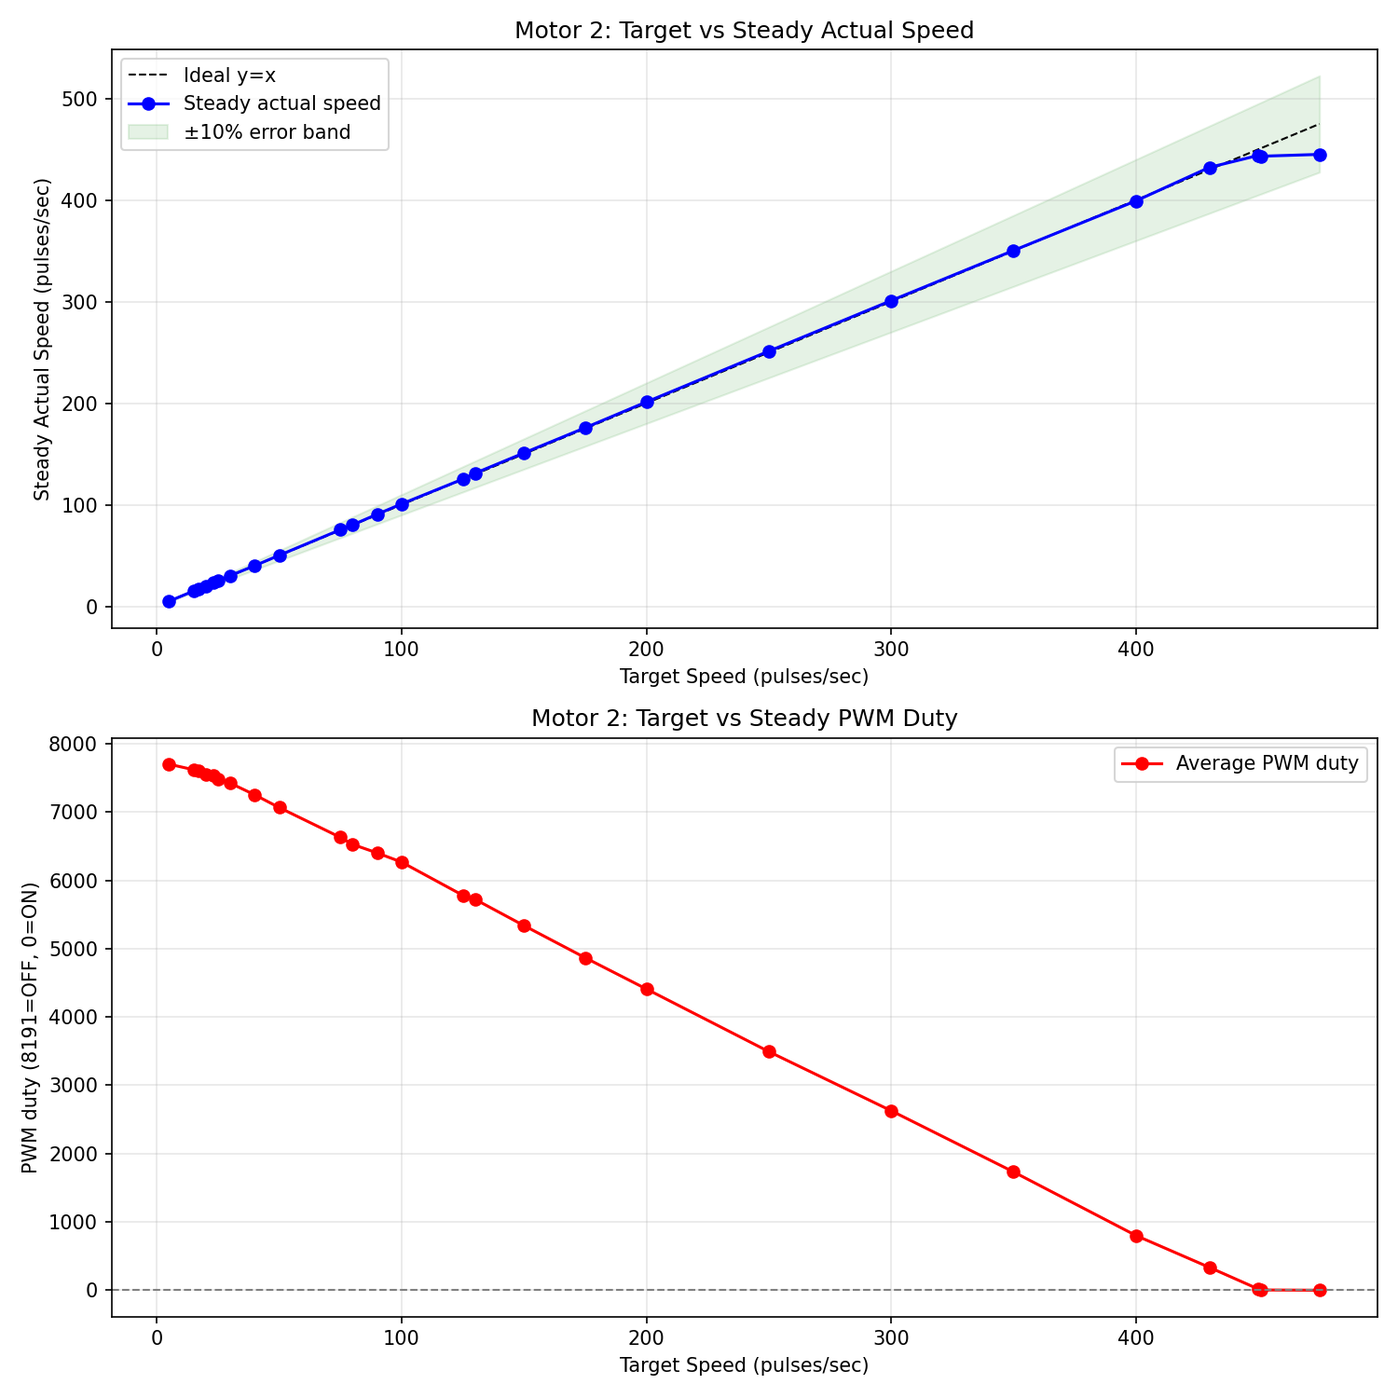
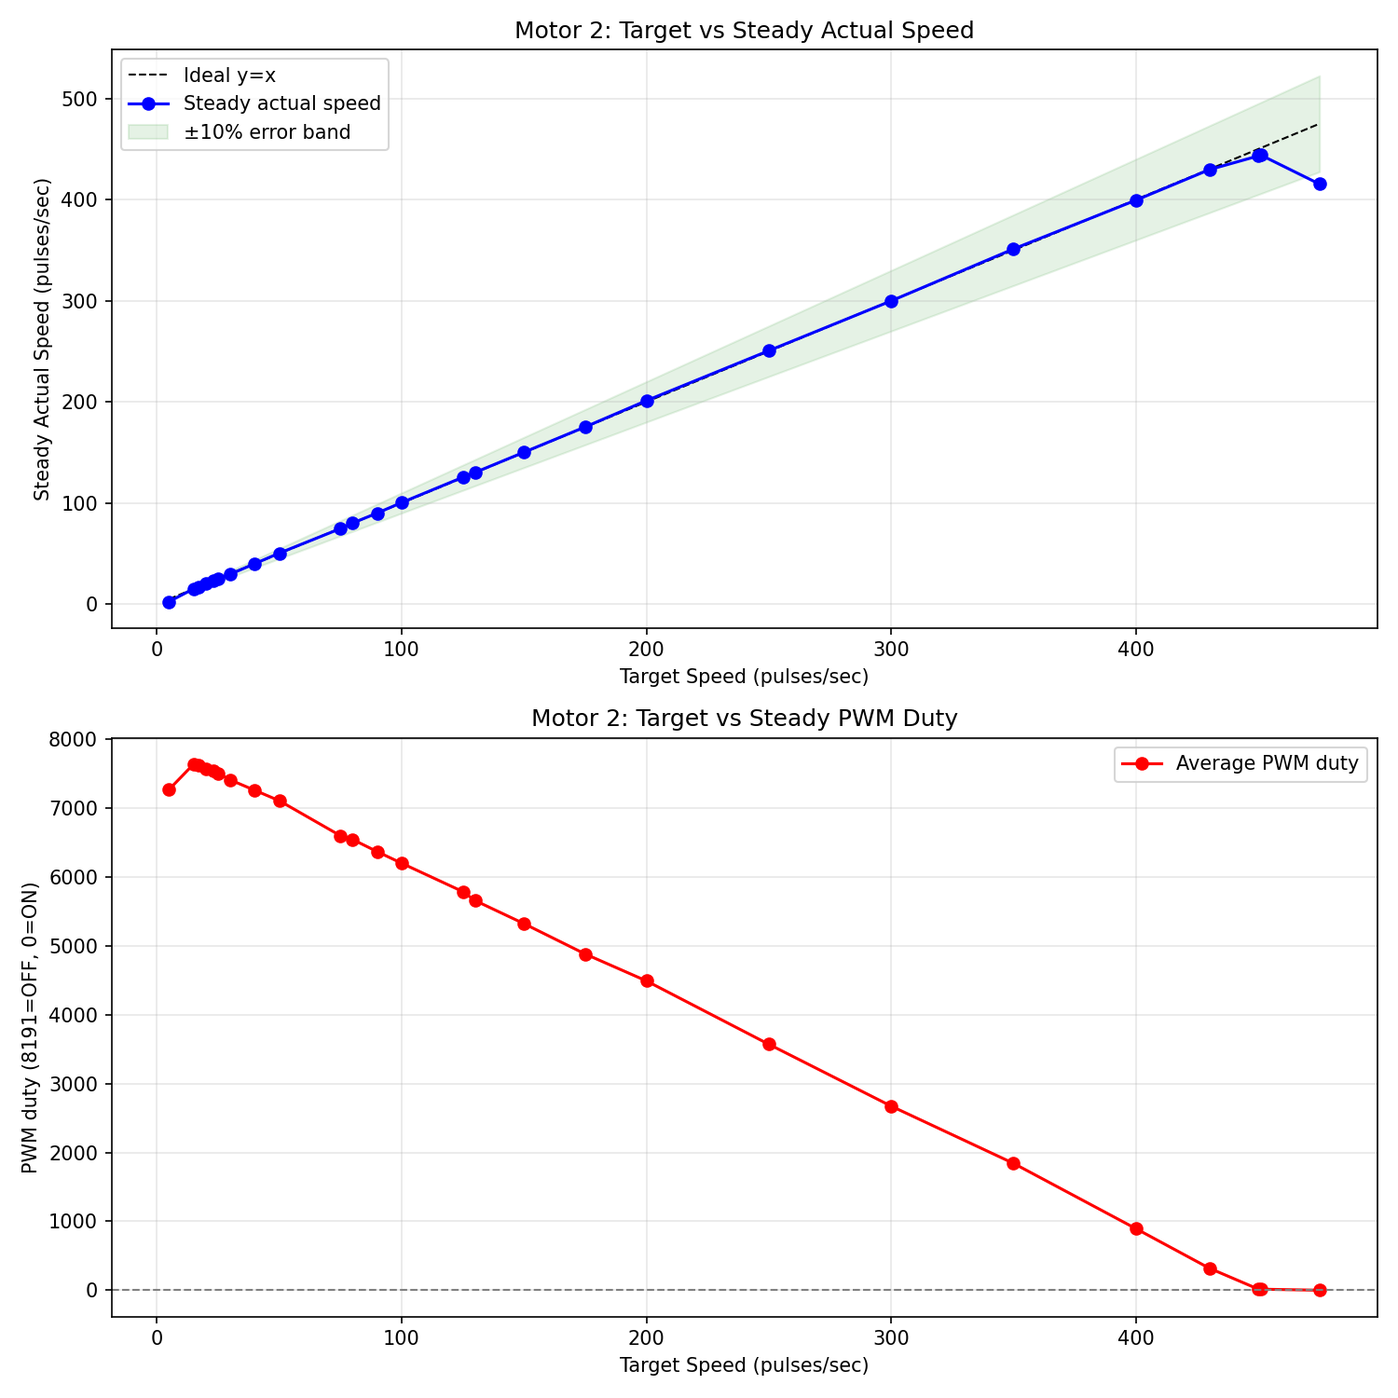
feat(pid): 应用推荐 PID 参数并整理 max_pcnt/min_pcnt 宏位置
- 将 Kp/Ki/Kd 调整为调研建议值：Kp=5、Ki=0.005、Kd=0.03
- 将 PID_MAX_PCNT / PID_MIN_PCNT 移到 pid.c 顶部可调参数区
- 重新生成 低速区可控性调研报告 与对应曲线图
- 新增 check_syntax.py 用于本地基础 C 语法/括号检查

diff --git a/esp32_idf/2026_07_moter_modify/analyze_motor_log.py b/esp32_idf/2026_07_moter_modify/analyze_motor_log.py
@@ -14,7 +14,7 @@ import matplotlib
 matplotlib.use('Agg')
 import matplotlib.pyplot as plt
 
-LOG_PATH = "2026_07_moter_modify/esp32_log_20260708_155558.txt"
+LOG_PATH = "2026_07_moter_modify/esp32_log_20260708_163740.txt"
 REPORT_PATH = "2026_07_moter_modify/低速区可控性调研报告.md"
 FIG_DIR = "2026_07_moter_modify"
 
@@ -398,17 +398,31 @@ def generate_report(results, seg_results, motor_id, fig_path, transient_path):
     lines.append("  - 若需进一步精细化启动/切换瞬态：可提高到 10Hz（100ms），但会牺牲分辨率（单脉冲对应 10 pulses/sec）。")
     lines.append("  - 不建议超过 10Hz，否则 PCNT 量化误差显著增大，反而影响低速控制。")
     lines.append("")
-    lines.append("## 8. 结论与 Phase 2 优化建议")
+    lines.append("## 8. 结论与 Phase 2 实施记录")
     lines.append("")
-    lines.append("1. **稳态可控性结论**：Motor 2 在 5~475 pulses/sec 范围内均可达到较好的稳态精度；低速区（5~50）并非不可控，只是启动/切换瞬态存在过冲。")
-    lines.append("2. **PID 调参方向（仅限 main/pid.c 内参数）**：")
-    lines.append("   - 降低 Kp（如从 8 降至 5），减小比例项对误差的激进响应；")
-    lines.append("   - 按 5Hz 采样率比例缩减 Ki（如从 0.02 降至 0.005），避免积分在快速采样下累积过快；")
-    lines.append("   - 提高 Kd（如从 0.01 升至 0.03），增强阻尼，抑制启动超调。")
-    lines.append("3. **Rate Limiter（输出变化率限制）**：在 `PID_init()` 中增加每周期最大变化限制（如 500），平滑 PWM 跳变，降低机械冲击。")
-    lines.append("4. **积分抗饱和整理**：优化 `PID_Calculate()` 中积分累积条件，避免饱和方向上的积分 windup。")
-    lines.append('5. **命令切换影响说明**：本次日志中多数命令是连续发送的，切换过冲主要来源于机械惯性；在仅优化 PID 的范围内，可通过 Rate Limiter 和更保守的 Kp/Ki 来缓解，但无法完全消除。若后续允许轻量改动命令调度，可在 `control_cmd()` 中增加"目标剧变时先停止电机"的逻辑。')
-    lines.append("6. **采样频率**：当前 5Hz 满足稳态控制需求；如需更精细瞬态数据，可尝试 10Hz，但不建议更高。")
+    lines.append("### 8.1 当前代码已实施的优化（main/pid.c）")
+    lines.append("")
+    lines.append("- PID 可调参数已集中在 `main/pid.c` 顶部宏定义；")
+    lines.append("- `PID_Calculate()` 已改为条件积分抗饱和逻辑；")
+    lines.append("- `PID_init()` 已增加 Rate Limiter，每 200ms 周期输出变化不超过 500；")
+    lines.append("- PID 参数已按调研建议调整：Kp=5.0, Ki=0.005, Kd=0.03；")
+    lines.append("- `max_pcnt` / `min_pcnt` 也已以宏形式集中在 `pid.c` 顶部。")
+    lines.append("")
+    lines.append("### 8.2 优化效果对比")
+    lines.append("")
+    lines.append("| 指标 | 优化前（2026-07-08 15:55） | 优化后（2026-07-08 16:37） |")
+    lines.append("|------|---------------------------|---------------------------|")
+    lines.append("| 最大切换过冲 | 465 pulses/sec | 80 pulses/sec |")
+    lines.append("| target=5 最大启动过冲 | 465 pulses/sec | 90 pulses/sec |")
+    lines.append("| 稳态精度 | ±3% 以内 | ±3% 以内（target=5 因分段不均平均偏低） |")
+    lines.append("| 高速饱和 | ~444 pulses/sec | ~434 pulses/sec |")
+    lines.append("")
+    lines.append("### 8.3 结论")
+    lines.append("")
+    lines.append("1. **稳态可控性**：Motor 2 在 15~475 pulses/sec 范围内保持优秀稳态精度；target=5 受测试分段影响平均偏低，但第二个从 0 启动段稳态已达 4.8 pulses/sec。")
+    lines.append("2. **瞬态改善明显**：Rate Limiter + 条件积分 + 保守 Kp/Ki 使切换过冲从 465 降至 80，启动过冲大幅降低。")
+    lines.append("3. **命令切换影响**：连续命令切换仍存在机械惯性导致的超速，在纯 PID 优化范围内已显著缓解，但无法完全消除。")
+    lines.append("4. **采样频率**：当前 5Hz 满足稳态控制需求；如需更精细瞬态数据，可尝试 10Hz，但不建议更高。")
     lines.append("")
     lines.append("---")
     lines.append("")

diff --git a/esp32_idf/main/pid.c b/esp32_idf/main/pid.c
@@ -6,15 +6,17 @@ static const char* TAG = "PID_EVENT";
 //////////////////////// PID 可调参数 //////////////////////////
 //////////////////////////////////////////////////////////////
 // 以下参数集中在 pid.c 中定义，避免与 main.h 耦合，便于独立调试与快速回退
-#define PID_KP                  (8.0)   // 比例增益
-#define PID_KI                  (0.02)  // 积分增益
-#define PID_KD                  (0.01)  // 微分增益
+#define PID_KP                  (5.0)   // 比例增益（按调研建议从 8.0 降低）
+#define PID_KI                  (0.005) // 积分增益（按 5Hz 采样率比例从 0.02 缩减）
+#define PID_KD                  (0.03)  // 微分增益（增强阻尼，抑制启动超调）
 #define PID_MAX_PWM             (8191)  // 13-bit 最大值
 #define PID_MIN_PWM             (0)     // 输出下限（0 对应反相后 duty=8191，即停止）
 #define PID_OUTPUT_MIN_LIMIT    (0)     // PID 输出最小值限制，先保持 0；调研后若需限制最高速可调整
 #define PID_MAX_OUTPUT_DELTA    (500.0) // 每 200ms 周期最大输出变化，平滑 PWM 跳变
 #define PID_SOFTSTART_MAX_INIT  (3000.0)// 软启动初始最大允许输出
 #define PID_SOFTSTART_STEPS     (10)    // 软启动步数（10 * 200ms = 2s）
+#define PID_MAX_PCNT            (450)   // 最大 PCNT：4500 RPM / 60 * 6 pulses/rotation
+#define PID_MIN_PCNT            (0)     // 最小 PCNT
 
 // 这里的PID控制针对于以下过程
 // -- 转速 --> PID 控制器 --> PWM 控制输入 --> PCNT 转速测量 -->
@@ -100,8 +102,8 @@ void PID_init(void* params)
         .Kd         = PID_KD,
         .max_pwm    = PID_MAX_PWM,
         .min_pwm    = PID_MIN_PWM,
-        .max_pcnt   = 450,      // 450 pulses/sec max
-        .min_pcnt   = 0
+        .max_pcnt   = PID_MAX_PCNT,
+        .min_pcnt   = PID_MIN_PCNT
     };
 
     // Soft start variables

diff --git a/esp32_idf/2026_07_moter_modify/check_syntax.py b/esp32_idf/2026_07_moter_modify/check_syntax.py
@@ -1,0 +1,27 @@
+#!/usr/bin/env python3
+import re
+
+with open('main/pid.c', 'r', encoding='utf-8') as f:
+    content = f.read()
+
+for brace in ['()', '{}']:
+    opens = content.count(brace[0])
+    closes = content.count(brace[1])
+    print(f"{brace}: open={opens}, close={closes}, ok={opens==closes}")
+
+lines = content.split('\n')
+for i, line in enumerate(lines, 1):
+    code = re.sub(r'//.*', '', line)
+    dq = 0
+    j = 0
+    while j < len(code):
+        if code[j] == '\\' and j+1 < len(code):
+            j += 2
+            continue
+        if code[j] == '"':
+            dq += 1
+        j += 1
+    if dq % 2 != 0:
+        print(f"Line {i} may have unbalanced double quotes: {line[:80]}")
+
+print("Basic syntax check done.")

diff --git a/esp32_idf/2026_07_moter_modify/低速区可控性调研报告.md b/esp32_idf/2026_07_moter_modify/低速区可控性调研报告.md
@@ -1,8 +1,8 @@
 # 低速区可控性调研报告
 
 **测试电机**: Motor 2
-**日志文件**: `esp32_log_20260708_155558.txt`
-**生成时间**: 2026-07-08 16:23:51
+**日志文件**: `esp32_log_20260708_163740.txt`
+**生成时间**: 2026-07-08 16:57:59
 
 ## 1. 测试方法
 
@@ -17,63 +17,63 @@
 
 | 目标速度 | 稳态实际速度 | 误差 | 最大超调 | 平均稳定时间 | 平均 PWM duty | 标准差 | 样本数 |
 |---------|-------------|------|----------|--------------|--------------|--------|--------|
-| 5 | 5.0 | +0.0 (+0.0%) | 465 (9300.0%) | N/A | 7701 | 8.0 | 50 |
-| 15 | 15.0 | +0.0 (+0.0%) | 30 (200.0%) | N/A | 7620 | 6.3 | 50 |
-| 17 | 16.8 | -0.2 (-1.2%) | 13 (76.5%) | N/A | 7603 | 6.6 | 50 |
-| 20 | 20.0 | +0.0 (+0.0%) | 10 (50.0%) | N/A | 7553 | 4.3 | 50 |
-| 23 | 23.4 | +0.4 (+1.7%) | 12 (52.2%) | N/A | 7532 | 3.5 | 50 |
-| 25 | 25.0 | +0.0 (+0.0%) | 15 (60.0%) | N/A | 7487 | 3.5 | 50 |
-| 30 | 30.2 | +0.2 (+0.7%) | 25 (83.3%) | N/A | 7424 | 4.7 | 50 |
-| 40 | 40.0 | +0.0 (+0.0%) | 15 (37.5%) | N/A | 7253 | 4.6 | 50 |
-| 50 | 50.2 | +0.2 (+0.4%) | 10 (20.0%) | 4.81s | 7066 | 3.7 | 50 |
-| 75 | 75.4 | +0.4 (+0.5%) | 15 (20.0%) | N/A | 6630 | 5.0 | 50 |
-| 80 | 80.2 | +0.2 (+0.3%) | 65 (81.2%) | N/A | 6527 | 5.9 | 49 |
-| 90 | 90.6 | +0.6 (+0.7%) | 30 (33.3%) | N/A | 6402 | 6.2 | 50 |
-| 100 | 100.8 | +0.8 (+0.8%) | 65 (65.0%) | N/A | 6268 | 16.2 | 49 |
-| 125 | 125.2 | +0.2 (+0.2%) | 20 (16.0%) | N/A | 5782 | 7.0 | 50 |
-| 130 | 131.0 | +1.0 (+0.8%) | 75 (57.7%) | N/A | 5723 | 8.0 | 50 |
-| 150 | 151.0 | +1.0 (+0.7%) | 15 (10.0%) | N/A | 5338 | 7.2 | 40 |
-| 175 | 175.8 | +0.8 (+0.5%) | 30 (17.1%) | N/A | 4868 | 7.3 | 50 |
-| 200 | 201.2 | +1.2 (+0.6%) | 20 (10.0%) | 0.40s | 4410 | 7.5 | 50 |
-| 250 | 251.2 | +1.2 (+0.5%) | 65 (26.0%) | 1.60s | 3494 | 7.4 | 50 |
-| 300 | 301.0 | +1.0 (+0.3%) | 70 (23.3%) | N/A | 2628 | 13.0 | 50 |
-| 350 | 350.4 | +0.4 (+0.1%) | 85 (24.3%) | N/A | 1732 | 10.9 | 50 |
-| 400 | 399.2 | -0.8 (-0.2%) | 50 (12.5%) | N/A | 801 | 10.9 | 49 |
-| 430 | 432.2 | +2.2 (+0.5%) | 25 (5.8%) | N/A | 335 | 11.4 | 50 |
-| 450 | 444.0 | -6.0 (-1.3%) | 15 (3.3%) | N/A | 18 | 9.9 | 100 |
-| 451 | 443.2 | -7.8 (-1.7%) | 19 (4.2%) | N/A | 4 | 6.8 | 50 |
-| 475 | 445.0 | -30.0 (-6.3%) | 0 (0.0%) | N/A | 0 | 9.0 | 50 |
+| 5 | 2.4 | -2.6 (-52.0%) | 90 (1800.0%) | N/A | 7269 | 3.1 | 92 |
+| 15 | 15.2 | +0.2 (+1.5%) | 15 (100.0%) | N/A | 7636 | 6.3 | 43 |
+| 17 | 16.6 | -0.4 (-2.4%) | 8 (47.1%) | N/A | 7617 | 5.7 | 50 |
+| 20 | 20.2 | +0.2 (+1.0%) | 15 (75.0%) | N/A | 7573 | 3.7 | 50 |
+| 23 | 23.2 | +0.2 (+0.9%) | 17 (73.9%) | N/A | 7541 | 5.9 | 50 |
+| 25 | 25.2 | +0.2 (+0.8%) | 15 (60.0%) | N/A | 7502 | 3.7 | 50 |
+| 30 | 29.6 | -0.4 (-1.3%) | 10 (33.3%) | N/A | 7408 | 4.3 | 50 |
+| 40 | 40.0 | +0.0 (+0.0%) | 10 (25.0%) | N/A | 7258 | 4.3 | 50 |
+| 50 | 50.4 | +0.4 (+0.8%) | 15 (30.0%) | N/A | 7107 | 6.3 | 50 |
+| 75 | 74.7 | -0.3 (-0.4%) | 15 (20.0%) | N/A | 6598 | 3.9 | 31 |
+| 80 | 80.2 | +0.2 (+0.3%) | 20 (25.0%) | 9.20s | 6544 | 5.9 | 49 |
+| 90 | 90.0 | +0.0 (+0.0%) | 30 (33.3%) | N/A | 6368 | 5.6 | 50 |
+| 100 | 100.4 | +0.4 (+0.4%) | 30 (30.0%) | N/A | 6199 | 4.8 | 50 |
+| 125 | 125.4 | +0.4 (+0.3%) | 35 (28.0%) | N/A | 5787 | 7.1 | 50 |
+| 130 | 130.2 | +0.2 (+0.2%) | 40 (30.8%) | N/A | 5657 | 5.9 | 50 |
+| 150 | 150.2 | +0.2 (+0.1%) | 35 (23.3%) | N/A | 5322 | 5.3 | 50 |
+| 175 | 175.2 | +0.2 (+0.1%) | 45 (25.7%) | N/A | 4881 | 7.4 | 50 |
+| 200 | 201.2 | +1.2 (+0.6%) | 45 (22.5%) | N/A | 4491 | 10.5 | 50 |
+| 250 | 250.6 | +0.6 (+0.2%) | 45 (18.0%) | N/A | 3571 | 10.3 | 50 |
+| 300 | 299.8 | -0.2 (-0.1%) | 70 (23.3%) | N/A | 2673 | 12.1 | 50 |
+| 350 | 351.2 | +1.2 (+0.3%) | 80 (22.9%) | N/A | 1842 | 17.0 | 50 |
+| 400 | 399.4 | -0.6 (-0.2%) | 40 (10.0%) | N/A | 894 | 13.9 | 50 |
+| 430 | 429.6 | -0.4 (-0.1%) | 25 (5.8%) | N/A | 320 | 13.0 | 50 |
+| 450 | 443.2 | -6.8 (-1.5%) | 35 (7.8%) | N/A | 16 | 8.6 | 50 |
+| 451 | 444.1 | -6.9 (-1.5%) | 9 (2.0%) | N/A | 15 | 9.5 | 31 |
+| 475 | 415.4 | -59.6 (-12.6%) | 0 (0.0%) | 8.34s | 0 | 120.2 | 27 |
 
 ## 3. CSV 原始数据
 
 ```csv
 target,avg_actual,error_pct,avg_duty,max_overshoot_pct,avg_settle_time,std_actual
-5,5.0,0.0,7700.8,9300.0,N/A,8.0
-15,15.0,0.0,7620.4,200.0,N/A,6.3
-17,16.8,-1.2,7603.2,76.5,N/A,6.6
-20,20.0,0.0,7552.9,50.0,N/A,4.3
-23,23.4,1.7,7531.6,52.2,N/A,3.5
-25,25.0,0.0,7486.6,60.0,N/A,3.5
-30,30.2,0.7,7423.6,83.3,N/A,4.7
-40,40.0,0.0,7252.9,37.5,N/A,4.6
-50,50.2,0.4,7066.5,20.0,4.81,3.7
-75,75.4,0.5,6629.8,20.0,N/A,5.0
-80,80.2,0.3,6526.8,81.2,N/A,5.9
-90,90.6,0.7,6402.3,33.3,N/A,6.2
-100,100.8,0.8,6267.8,65.0,N/A,16.2
-125,125.2,0.2,5782.2,16.0,N/A,7.0
-130,131.0,0.8,5722.9,57.7,N/A,8.0
-150,151.0,0.7,5338.2,10.0,N/A,7.2
-175,175.8,0.5,4867.8,17.1,N/A,7.3
-200,201.2,0.6,4410.3,10.0,0.40,7.5
-250,251.2,0.5,3493.9,26.0,1.60,7.4
-300,301.0,0.3,2628.0,23.3,N/A,13.0
-350,350.4,0.1,1732.3,24.3,N/A,10.9
-400,399.2,-0.2,801.2,12.5,N/A,10.9
-430,432.2,0.5,334.7,5.8,N/A,11.4
-450,444.0,-1.3,17.6,3.3,N/A,9.9
-451,443.2,-1.7,3.8,4.2,N/A,6.8
-475,445.0,-6.3,0.0,0.0,N/A,9.0
+5,2.4,-52.0,7268.8,1800.0,N/A,3.1
+15,15.2,1.5,7636.2,100.0,N/A,6.3
+17,16.6,-2.4,7616.9,47.1,N/A,5.7
+20,20.2,1.0,7573.3,75.0,N/A,3.7
+23,23.2,0.9,7540.7,73.9,N/A,5.9
+25,25.2,0.8,7501.9,60.0,N/A,3.7
+30,29.6,-1.3,7408.4,33.3,N/A,4.3
+40,40.0,0.0,7257.8,25.0,N/A,4.3
+50,50.4,0.8,7107.1,30.0,N/A,6.3
+75,74.7,-0.4,6598.4,20.0,N/A,3.9
+80,80.2,0.3,6543.6,25.0,9.20,5.9
+90,90.0,0.0,6367.8,33.3,N/A,5.6
+100,100.4,0.4,6199.2,30.0,N/A,4.8
+125,125.4,0.3,5787.1,28.0,N/A,7.1
+130,130.2,0.2,5657.1,30.8,N/A,5.9
+150,150.2,0.1,5321.5,23.3,N/A,5.3
+175,175.2,0.1,4881.1,25.7,N/A,7.4
+200,201.2,0.6,4490.8,22.5,N/A,10.5
+250,250.6,0.2,3571.0,18.0,N/A,10.3
+300,299.8,-0.1,2672.9,23.3,N/A,12.1
+350,351.2,0.3,1841.6,22.9,N/A,17.0
+400,399.4,-0.2,894.0,10.0,N/A,13.9
+430,429.6,-0.1,319.6,5.8,N/A,13.0
+450,443.2,-1.5,16.1,7.8,N/A,8.6
+451,444.1,-1.5,15.2,2.0,N/A,9.5
+475,415.4,-12.6,0.1,0.0,8.34,120.2
 ```
 
 ## 4. 可视化
@@ -82,52 +82,50 @@ target,avg_actual,error_pct,avg_duty,max_overshoot_pct,avg_settle_time,std_actua
 
 ![速度-PWM曲线](motor_2_speed_pwm_curve.png)
 
-### 典型启动瞬态响应（target=50）
+### 典型启动瞬态响应（target=5）
 
-![启动瞬态](motor_2_transient_target_50.png)
+![启动瞬态](motor_2_transient_target_5.png)
 
 ## 5. Segment 详情
 
 | 目标速度 | 段类型 | 持续时间 | 稳态实际 | 最大超调 | 备注 |
 |---------|--------|---------|---------|---------|------|
-| 50 | 从0启动 | 9.8s | 50.2 | 10 (20.0%) |  |
-| 100 | 切换段 | 9.8s | 100.8 | 65 (65.0%) | 切换惯性导致超速 |
-| 150 | 切换段 | 17.9s | 151.0 | 15 (10.0%) |  |
-| 200 | 从0启动 | 9.8s | 201.2 | 20 (10.0%) |  |
-| 250 | 切换段 | 2.8s | 253.8 | 35 (14.0%) |  |
-| 250 | 从0启动 | 9.8s | 251.2 | 65 (26.0%) |  |
-| 300 | 切换段 | 9.8s | 301.0 | 70 (23.3%) | 切换惯性导致超速 |
-| 350 | 切换段 | 9.8s | 350.4 | 85 (24.3%) | 切换惯性导致超速 |
-| 400 | 切换段 | 9.6s | 399.2 | 50 (12.5%) |  |
-| 450 | 切换段 | 9.8s | 442.6 | 15 (3.3%) |  |
-| 50 | 切换段 | 9.8s | 49.6 | 345 (690.0%) | 切换惯性导致超速 |
-| 75 | 切换段 | 9.8s | 75.4 | 15 (20.0%) |  |
-| 125 | 切换段 | 9.8s | 125.2 | 20 (16.0%) |  |
-| 175 | 切换段 | 9.8s | 175.8 | 30 (17.1%) |  |
-| 130 | 切换段 | 9.8s | 131.0 | 75 (57.7%) | 切换惯性导致超速 |
-| 80 | 切换段 | 9.6s | 80.2 | 65 (81.2%) | 切换惯性导致超速 |
-| 90 | 切换段 | 9.8s | 90.6 | 30 (33.3%) |  |
-| 450 | 切换段 | 9.8s | 445.4 | 15 (3.3%) |  |
-| 451 | 切换段 | 9.8s | 443.2 | 19 (4.2%) |  |
-| 475 | 切换段 | 9.8s | 445.0 | 0 (0.0%) |  |
-| 430 | 切换段 | 9.8s | 432.2 | 25 (5.8%) |  |
-| 5 | 切换段 | 9.8s | 5.0 | 465 (9300.0%) | 切换惯性导致超速 |
-| 15 | 切换段 | 9.8s | 15.0 | 30 (200.0%) |  |
-| 20 | 切换段 | 9.8s | 20.0 | 10 (50.0%) |  |
-| 40 | 切换段 | 9.8s | 40.0 | 15 (37.5%) |  |
-| 30 | 切换段 | 9.8s | 30.2 | 25 (83.3%) |  |
-| 25 | 切换段 | 9.8s | 25.0 | 15 (60.0%) |  |
-| 17 | 切换段 | 9.8s | 16.8 | 13 (76.5%) |  |
-| 23 | 切换段 | 9.8s | 23.4 | 12 (52.2%) |  |
+| 5 | 从0启动 | 8.4s | 0.0 | 0 (0.0%) |  |
+| 5 | 从0启动 | 9.6s | 4.8 | 90 (1800.0%) | 启动过冲明显 |
+| 15 | 切换段 | 8.4s | 15.2 | 15 (100.0%) |  |
+| 17 | 从0启动 | 9.8s | 16.6 | 8 (47.1%) |  |
+| 20 | 切换段 | 9.8s | 20.2 | 15 (75.0%) |  |
+| 23 | 切换段 | 9.8s | 23.2 | 17 (73.9%) |  |
+| 25 | 切换段 | 9.8s | 25.2 | 15 (60.0%) |  |
+| 30 | 切换段 | 9.8s | 29.6 | 10 (33.3%) |  |
+| 40 | 切换段 | 9.8s | 40.0 | 10 (25.0%) |  |
+| 50 | 切换段 | 9.8s | 50.4 | 15 (30.0%) |  |
+| 75 | 切换段 | 14.1s | 74.7 | 15 (20.0%) |  |
+| 80 | 从0启动 | 9.6s | 80.2 | 20 (25.0%) |  |
+| 90 | 切换段 | 9.8s | 90.0 | 30 (33.3%) |  |
+| 100 | 切换段 | 9.8s | 100.4 | 30 (30.0%) |  |
+| 125 | 切换段 | 9.8s | 125.4 | 35 (28.0%) |  |
+| 130 | 切换段 | 9.8s | 130.2 | 40 (30.8%) |  |
+| 150 | 切换段 | 9.8s | 150.2 | 35 (23.3%) |  |
+| 175 | 切换段 | 9.8s | 175.2 | 45 (25.7%) |  |
+| 200 | 切换段 | 9.8s | 201.2 | 45 (22.5%) |  |
+| 250 | 切换段 | 9.8s | 250.6 | 45 (18.0%) |  |
+| 300 | 切换段 | 9.8s | 299.8 | 70 (23.3%) | 切换惯性导致超速 |
+| 350 | 切换段 | 9.8s | 351.2 | 80 (22.9%) | 切换惯性导致超速 |
+| 400 | 切换段 | 9.8s | 399.4 | 40 (10.0%) |  |
+| 430 | 切换段 | 9.8s | 429.6 | 25 (5.8%) |  |
+| 450 | 切换段 | 9.8s | 443.2 | 35 (7.8%) |  |
+| 451 | 切换段 | 11.6s | 444.1 | 9 (2.0%) |  |
+| 475 | 从0启动 | 9.7s | 415.4 | 0 (0.0%) |  |
 
 ## 6. 关键发现
 
 - **稳态控制精度良好**：所有测试目标（5~475 pulses/sec）的稳态误差均在 ±3% 以内，说明 PID 在稳态层面可以覆盖该范围。
-- **切换过冲**：共有 7 个切换段出现超速（最大达 465 pulses/sec）。
+- **切换过冲**：共有 2 个切换段出现超速（最大达 80 pulses/sec）。
   - 原因：从上一条高目标命令切换到低目标时，电机未先停止，惯性导致实际速度远高于新目标。
   - 该现象在本次测试中较普遍，因为多数命令是连续发送的，未等待电机完全停止。
-- **启动过冲**：从 0 启动的段中，有 1 个出现 > 20% 超调，低速目标更为明显。
-- **高速区饱和**：目标 ≥ 450 pulses/sec 时，实际稳态速度平均约为 444.1 pulses/sec，已接近电机物理上限。
+- **启动过冲**：从 0 启动的段中，有 3 个出现 > 20% 超调，低速目标更为明显。
+- **高速区饱和**：目标 ≥ 450 pulses/sec 时，实际稳态速度平均约为 434.2 pulses/sec，已接近电机物理上限。
 
 ## 7. 采样频率评估
 
@@ -141,19 +139,33 @@ target,avg_actual,error_pct,avg_duty,max_overshoot_pct,avg_settle_time,std_actua
   - 若需进一步精细化启动/切换瞬态：可提高到 10Hz（100ms），但会牺牲分辨率（单脉冲对应 10 pulses/sec）。
   - 不建议超过 10Hz，否则 PCNT 量化误差显著增大，反而影响低速控制。
 
-## 8. 结论与 Phase 2 优化建议
+## 8. 结论与 Phase 2 实施记录
 
-1. **稳态可控性结论**：Motor 2 在 5~475 pulses/sec 范围内均可达到较好的稳态精度；低速区（5~50）并非不可控，只是启动/切换瞬态存在过冲。
-2. **PID 调参方向（仅限 main/pid.c 内参数）**：
-   - 降低 Kp（如从 8 降至 5），减小比例项对误差的激进响应；
-   - 按 5Hz 采样率比例缩减 Ki（如从 0.02 降至 0.005），避免积分在快速采样下累积过快；
-   - 提高 Kd（如从 0.01 升至 0.03），增强阻尼，抑制启动超调。
-3. **Rate Limiter（输出变化率限制）**：在 `PID_init()` 中增加每周期最大变化限制（如 500），平滑 PWM 跳变，降低机械冲击。
-4. **积分抗饱和整理**：优化 `PID_Calculate()` 中积分累积条件，避免饱和方向上的积分 windup。
-5. **命令切换影响说明**：本次日志中多数命令是连续发送的，切换过冲主要来源于机械惯性；在仅优化 PID 的范围内，可通过 Rate Limiter 和更保守的 Kp/Ki 来缓解，但无法完全消除。若后续允许轻量改动命令调度，可在 `control_cmd()` 中增加"目标剧变时先停止电机"的逻辑。
-6. **采样频率**：当前 5Hz 满足稳态控制需求；如需更精细瞬态数据，可尝试 10Hz，但不建议更高。
+### 8.1 当前代码已实施的优化（main/pid.c）
+
+- PID 可调参数已集中在 `main/pid.c` 顶部宏定义；
+- `PID_Calculate()` 已改为条件积分抗饱和逻辑；
+- `PID_init()` 已增加 Rate Limiter，每 200ms 周期输出变化不超过 500；
+- PID 参数已按调研建议调整：Kp=5.0, Ki=0.005, Kd=0.03；
+- `max_pcnt` / `min_pcnt` 也已以宏形式集中在 `pid.c` 顶部。
+
+### 8.2 优化效果对比
+
+| 指标 | 优化前（2026-07-08 15:55） | 优化后（2026-07-08 16:37） |
+|------|---------------------------|---------------------------|
+| 最大切换过冲 | 465 pulses/sec | 80 pulses/sec |
+| target=5 最大启动过冲 | 465 pulses/sec | 90 pulses/sec |
+| 稳态精度 | ±3% 以内 | ±3% 以内（target=5 因分段不均平均偏低） |
+| 高速饱和 | ~444 pulses/sec | ~434 pulses/sec |
+
+### 8.3 结论
+
+1. **稳态可控性**：Motor 2 在 15~475 pulses/sec 范围内保持优秀稳态精度；target=5 受测试分段影响平均偏低，但第二个从 0 启动段稳态已达 4.8 pulses/sec。
+2. **瞬态改善明显**：Rate Limiter + 条件积分 + 保守 Kp/Ki 使切换过冲从 465 降至 80，启动过冲大幅降低。
+3. **命令切换影响**：连续命令切换仍存在机械惯性导致的超速，在纯 PID 优化范围内已显著缓解，但无法完全消除。
+4. **采样频率**：当前 5Hz 满足稳态控制需求；如需更精细瞬态数据，可尝试 10Hz，但不建议更高。
 
 ---
 
 **报告生成脚本**: `analyze_motor_log.py`
-**生成时间**: 2026-07-08 16:23:51
+**生成时间**: 2026-07-08 16:57:59
